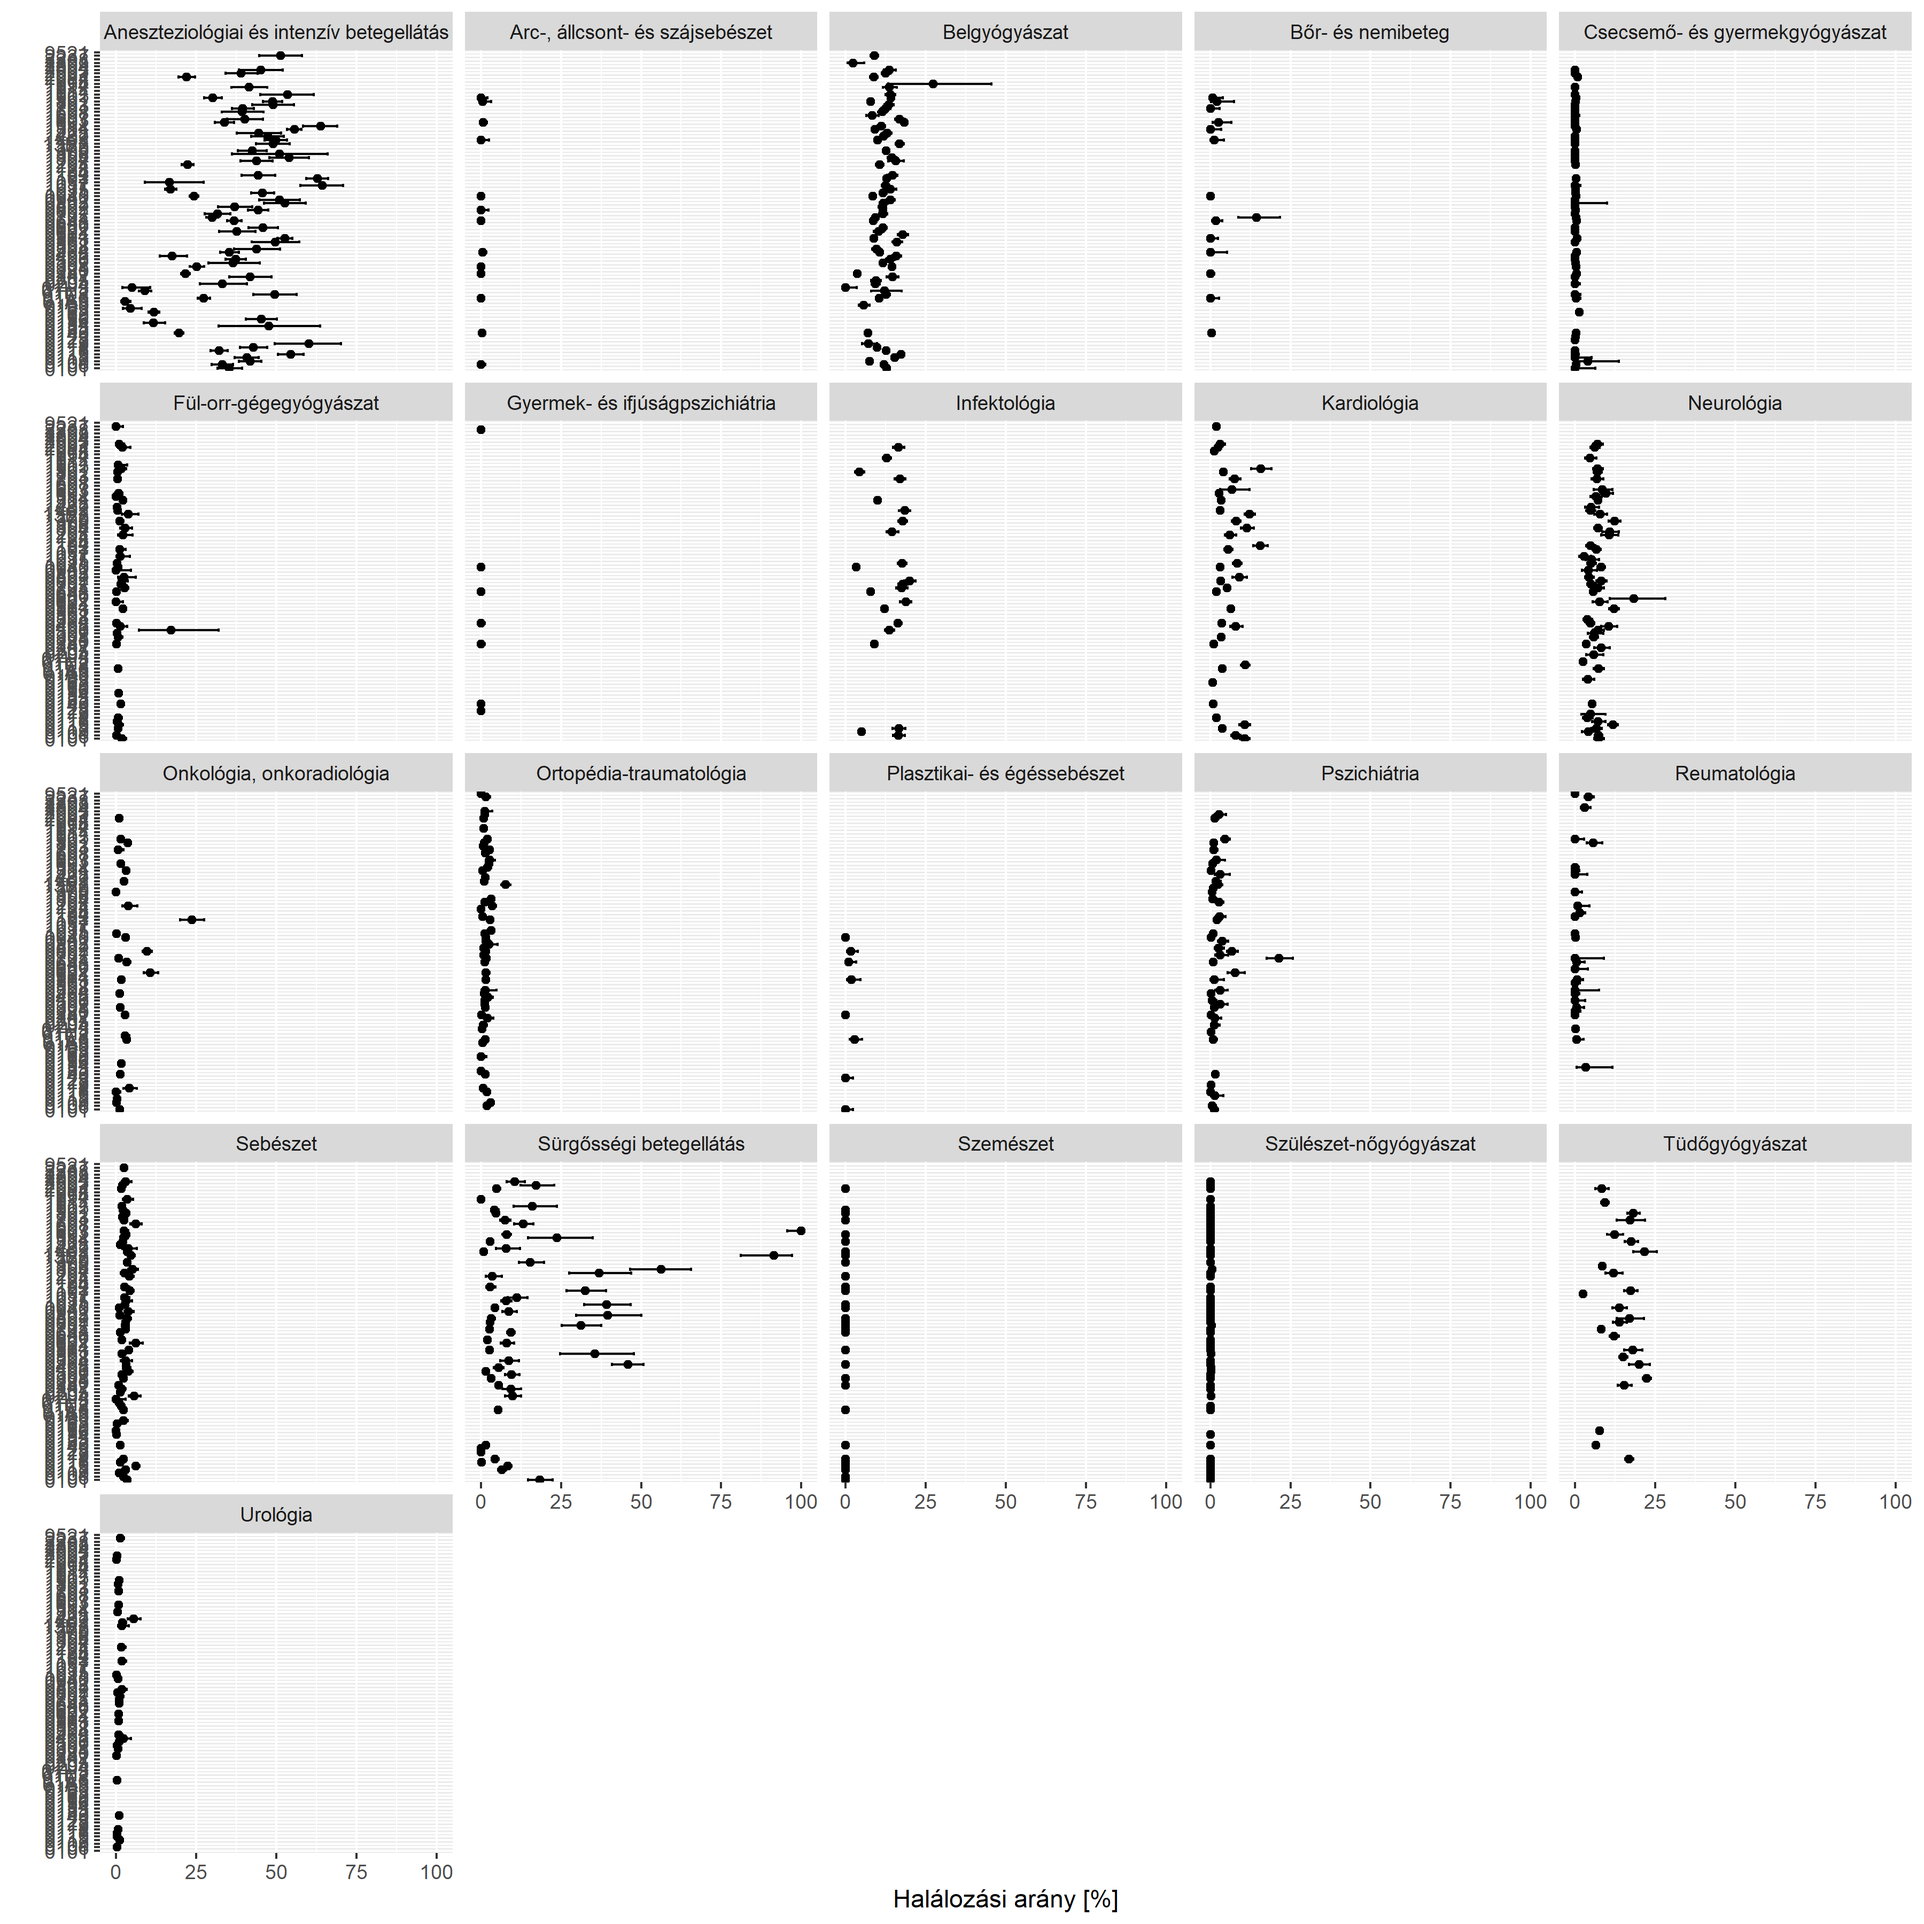
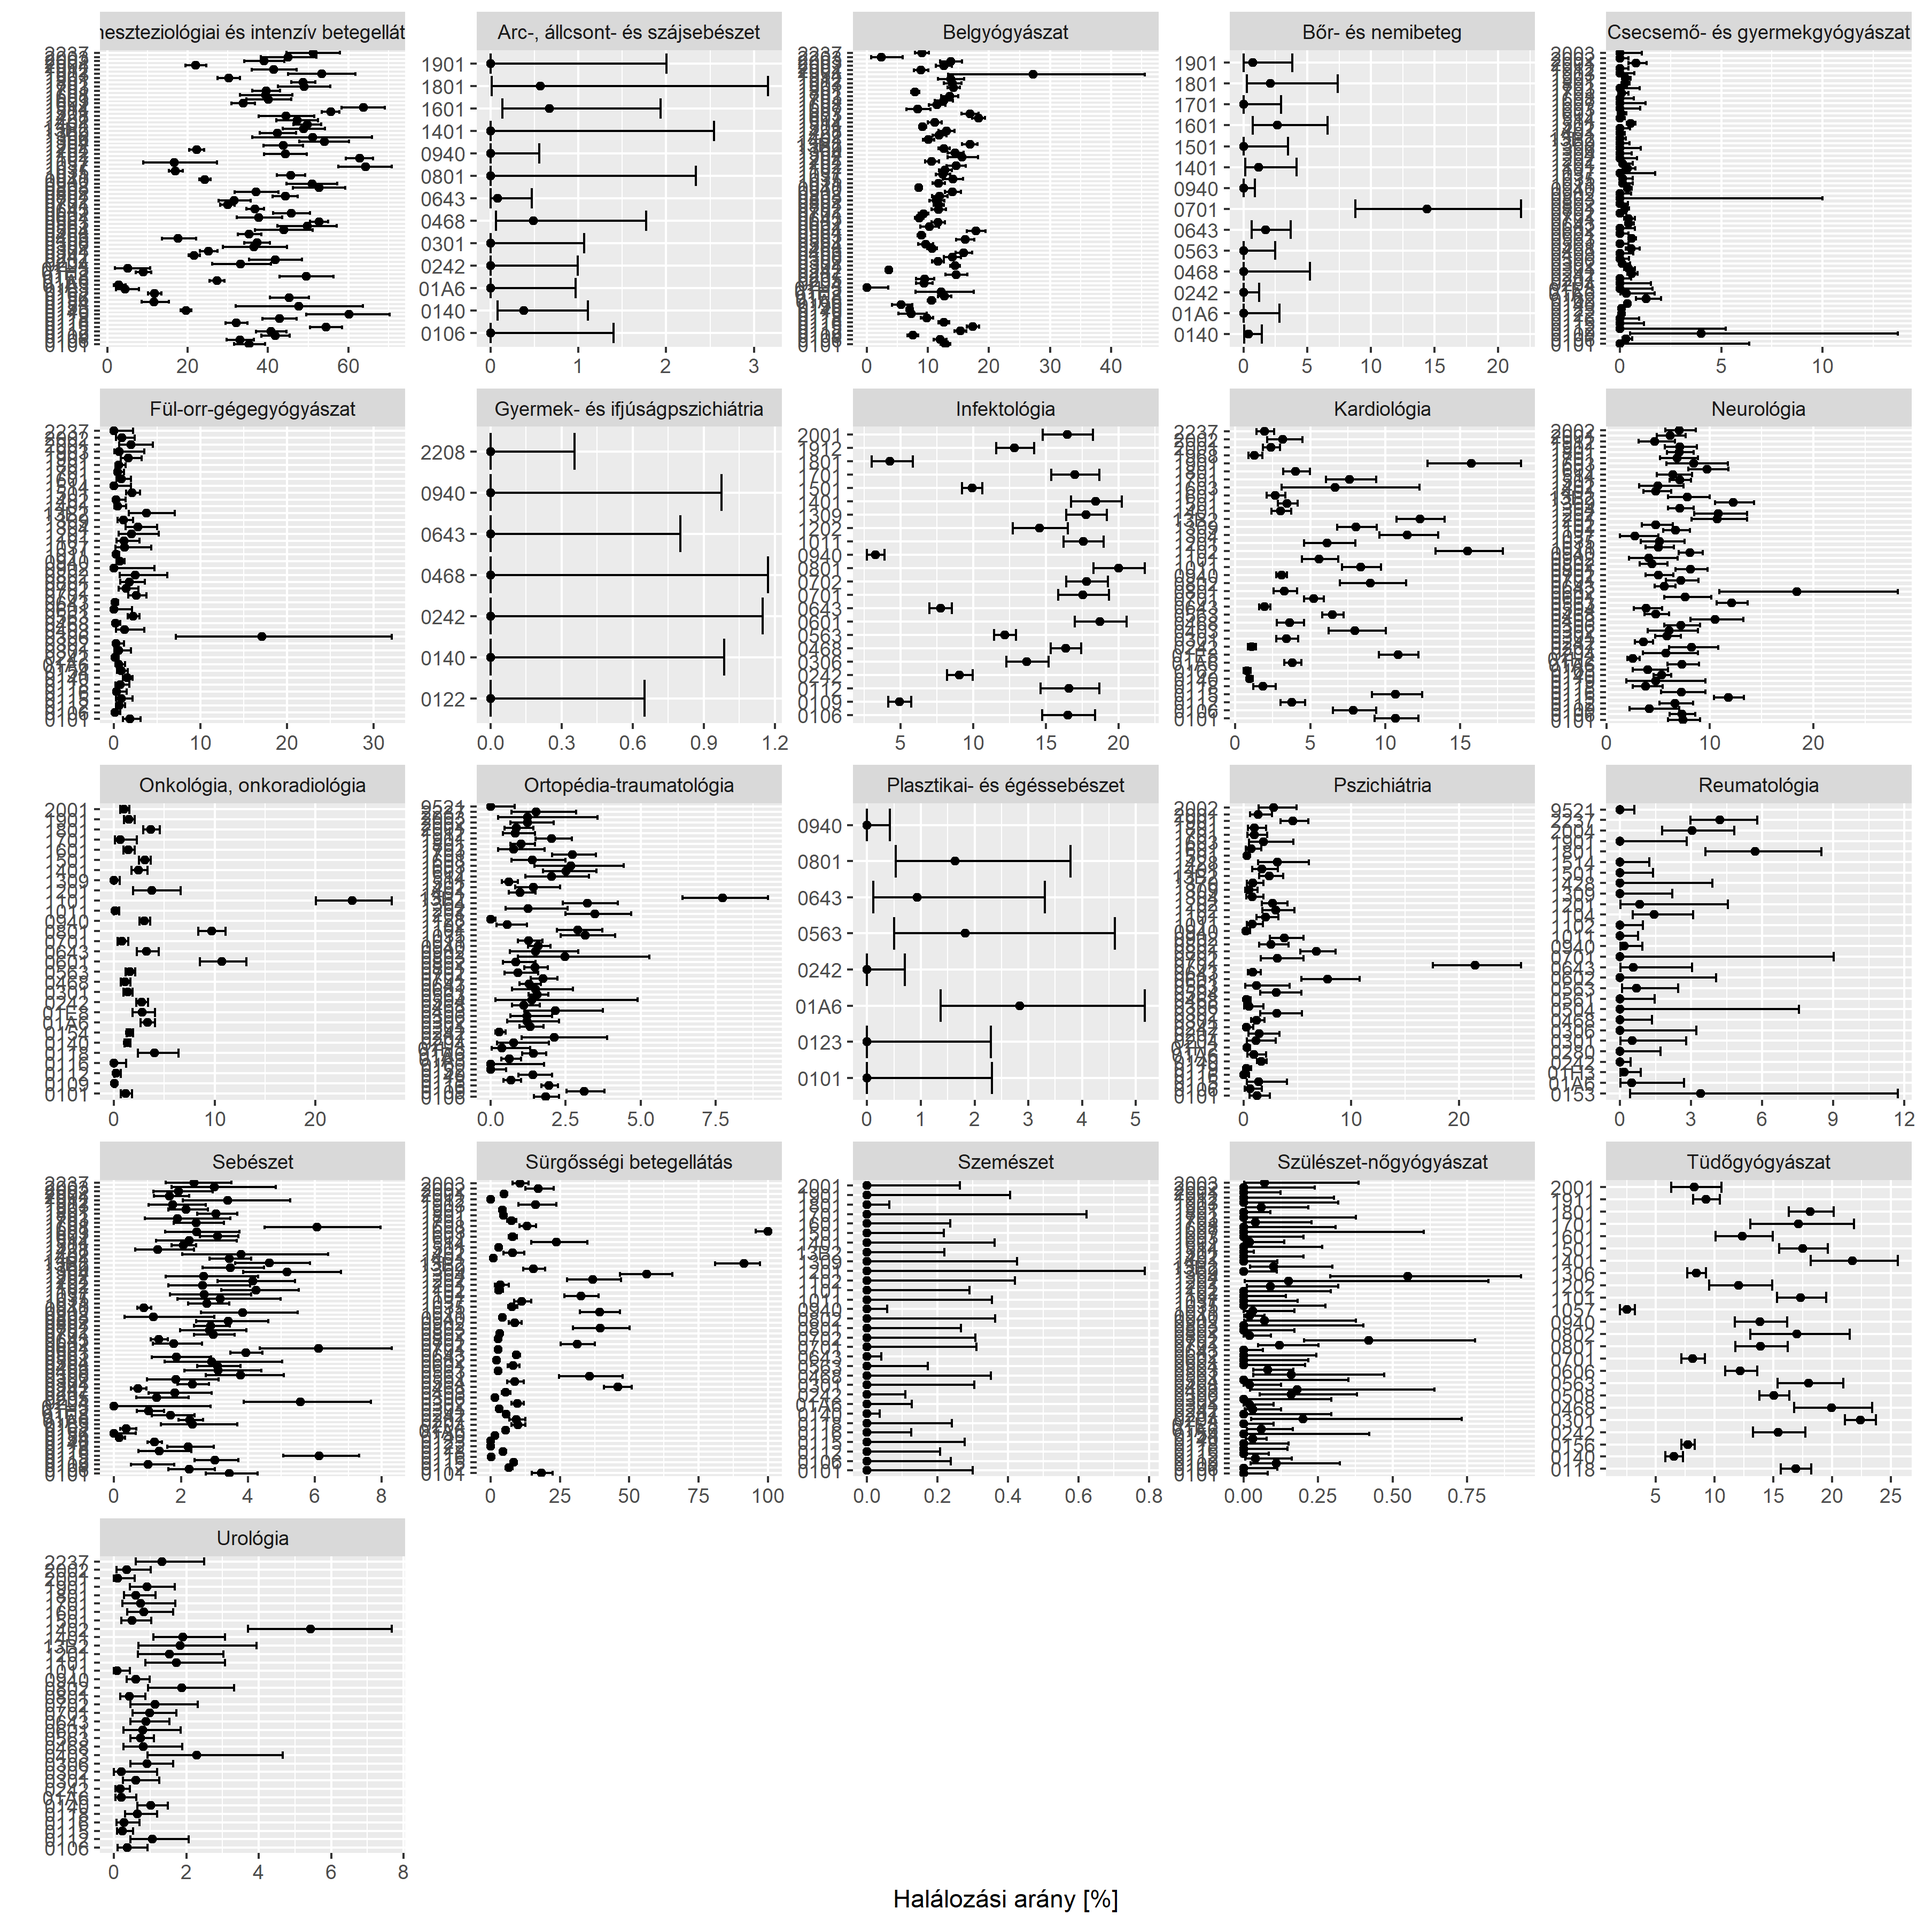
Ábra javítása.

Changed region(s): [[0.0, 0.0, 0.9956, 0.9644], [0.9022, 0.6844, 0.9644, 0.7467], [0.6844, 0.0, 0.7467, 0.0311]]

diff --git a/README.md b/README.md
@@ -2704,8 +2704,8 @@ mind különböző!):
 ggplot(res[Ev==2021][ElbocsatottBetegSzam>30&MukodoAtlagAgy>0][
   , .(Halalozas, KorhazRovid, SzakmaMegnev,
       t(Vectorize(function(x, n) binom.test(x, n)$conf.int*100)(MeghaltBetegSzam, ElbocsatottBetegSzam)))],
-  aes(x = Halalozas, xmin = V1, xmax = V2, y = KorhazRovid)) + facet_wrap(~SzakmaMegnev) + geom_point() +
-  geom_errorbar(size = 0.5) + labs(x = "Halálozási arány [%]", y = "")
+  aes(x = Halalozas, xmin = V1, xmax = V2, y = KorhazRovid)) + facet_wrap(~SzakmaMegnev, scales = "free") +
+  geom_point() + geom_errorbar(size = 0.5) + labs(x = "Halálozási arány [%]", y = "")
 ```
 
 ![](README_files/figure-gfm/unnamed-chunk-26-1.png)<!-- -->
